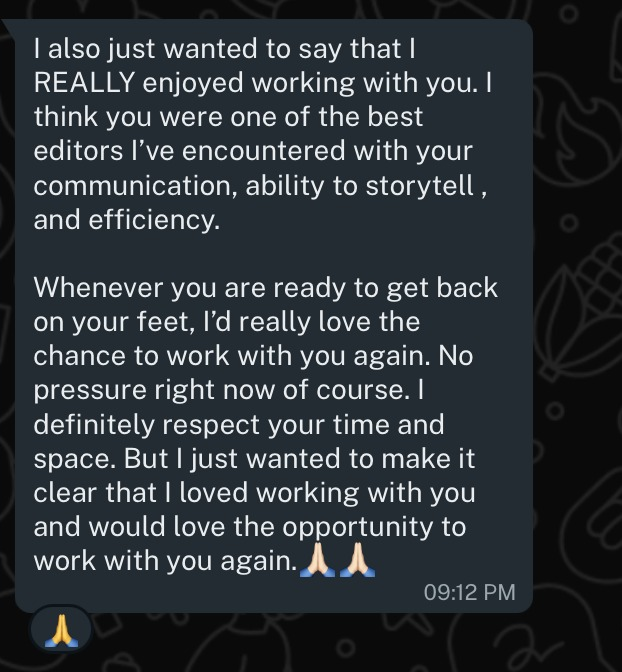
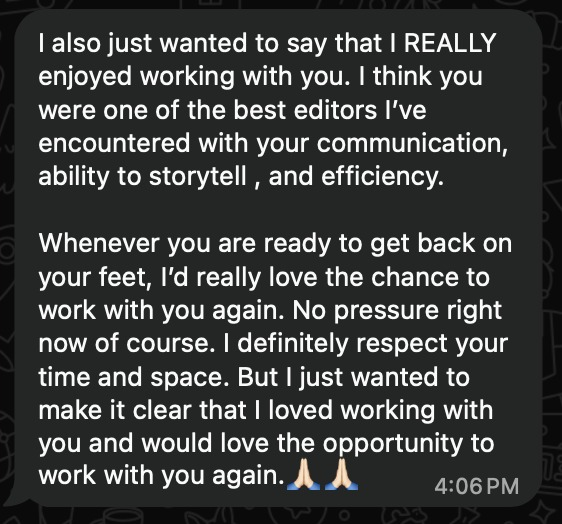
Communication section: two cropped screenshots side by side on the top row

diff --git a/index.html b/index.html
@@ -463,7 +463,6 @@
   .tm-dm-shots { display: flex; flex-direction: column; align-items: center; gap: 10px; min-width: 0; width: 100%; max-width: 440px; margin: 0 auto; }
   .tm-dm-row { display: flex; align-items: center; gap: 10px; width: 100%; }
   .tm-dm-row .tm-shot { min-width: 0; }
-  .tm-comm .tm-shot-narrow { width: 60%; }
   .tm-ba-pair { display: flex; width: 100%; border-radius: var(--radius-2); overflow: hidden; border: 1px solid var(--glass-border); }
   .tm-ba-pair .tm-shot { flex: 1 1 0; max-width: none; min-width: 0; }
   .tm-ba-pair .tm-shot-img { border: 0; border-radius: 0; }
@@ -1480,13 +1479,22 @@
     <div class="tm-ba tm-comm">
       <div class="tm-ba-grid">
         <div class="tm-dm-shots">
-          <figure class="tm-shot tm-shot-narrow">
+          <div class="tm-dm-row">
+          <figure class="tm-shot" style="flex: 1.073 1 0">
             <div class="tm-shot-img tm-shot-missing">
-              <img src="assets/comm-1.jpg" width="622" height="672" alt="Client message: one of the best editors I've encountered for communication, storytelling and efficiency, and would love to work together again" loading="lazy"
+              <img src="assets/comm-1.jpg" width="562" height="524" alt="Client message: one of the best editors I've encountered for communication, storytelling and efficiency, and would love to work together again" loading="lazy"
                    onload="this.parentElement.classList.remove('tm-shot-missing')"
                    onerror="this.remove()">
             </div>
           </figure>
+          <figure class="tm-shot" style="flex: 1.387 1 0">
+            <div class="tm-shot-img tm-shot-missing">
+              <img src="assets/comm-3.jpg" width="566" height="408" alt="Client message: I loved it, the best first draft I've ever received from an editor, loving this partnership already" loading="lazy"
+                   onload="this.parentElement.classList.remove('tm-shot-missing')"
+                   onerror="this.remove()">
+            </div>
+          </figure>
+          </div>
           <figure class="tm-shot">
             <div class="tm-shot-img tm-shot-missing">
               <img src="assets/comm-2.jpg" width="1046" height="742" alt="Chat with a client who replies: your communication is goated" loading="lazy"
